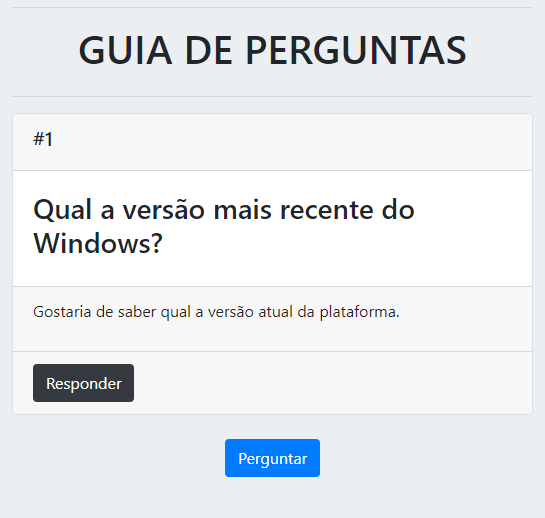
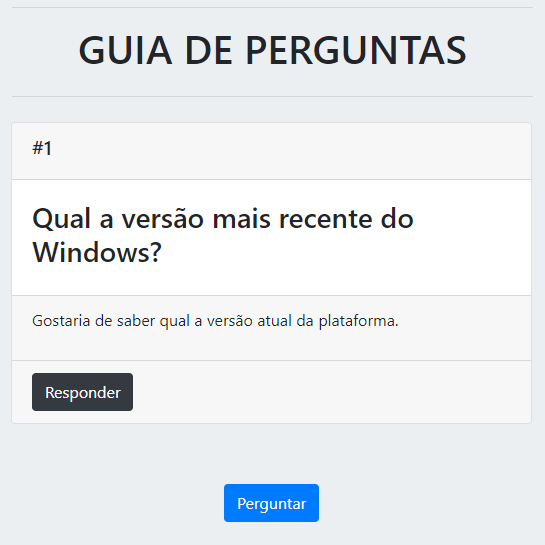
Melhorias no layout na sessão de projetos e mudança do texto de apresentação.

diff --git a/index.html b/index.html
@@ -5,7 +5,7 @@
     <meta charset="UTF-8">
     <meta http-equiv="X-UA-Compatible" content="IE=edge">
     <meta name="viewport" content="width=device-width, initial-scale=1.0">
-    <title>Pagina</title>
+    <title>Luis Carlos</title>
 
     <!-- Fontes -->
     <link rel="preconnect" href="https://fonts.googleapis.com">
@@ -84,9 +84,7 @@
                         </p>
                     </div>
                     <div class="col-12 pt-md-5 pt-4">
-                        <p class="text-white">Lorem ipsum dolor sit amet consectetur adipisicing elit. Officia autem
-                            neque consectetur molestiae deserunt hic, tempora aliquid eligendi, accusamus in, veniam
-                            doloribus. Unde fuga ad consequatur similique necessitatibus quo labore?</p>
+                        <p class="text-white">Olá, sou o Luis. Seja bem vindo(a)! Sou graduado em <strong>Ciência da Computação</strong> com especialização na área de Desenvolvimento Web <strong>Full Stack</strong> e <strong>Cloud Computing.</strong></p>
                     </div>
                 </div>
             </div>
@@ -97,17 +95,22 @@
 
             <div class="row text-white align-self-end justify-content-center d-flex p-0 m-0">
                 <div class="col-6 text-end">
-                    <i class="fab fa-github"></i>
+                    
+                    <a href="http://github.com/lolisdev" target="_blank">
+                        <i class="fab fa-github"></i>
+                    </a>
                 </div>
                 <div class="col-6 text-start">
-                    <i class="fab fa-linkedin"></i>
+                    <a href="https://www.linkedin.com/in/luis-carlos-pereira" target="_blank">
+                        <i class="fab fa-linkedin"></i>
+                    </a>
                 </div>
                 <div class="col-12">
                     <hr class="text-white p-auto">
                 </div>
                 <div class="col-12 justify-content-center">
                     <p class="text-center" style="text-shadow: 1px 1px 1px white;">
-                        Copyright 2021 - All rights reserved.
+                        Copyright 2023 - All rights reserved.
                     </p>
                 </div>
             </div>
@@ -158,10 +161,27 @@
                             Instituição de Ensino: Descomplica
                         </p>
                         <p>
-                            Curso: Pós Graduação em Projetos em Aplicações Móveis
+                            Curso: Pós Graduação em Projetos de Cloud Computing
                         </p>
                         <p>
                             Ano de Conclusão: 2022
+                        </p>
+                    </div>
+                </div>
+
+                <div class="row item-lista">
+                    <div class="col-4 d-flex justify-content-end" id="col-desc">
+                        <img class="logo" id="desc-logo" src="/img/descomplica-logo.png" alt="Logo da Descomplica">
+                    </div>
+                    <div class="col">
+                        <p>
+                            Instituição de Ensino: Descomplica
+                        </p>
+                        <p>
+                            Curso: Pós Graduação em Projetos em Aplicações Móveis
+                        </p>
+                        <p>
+                            Ano de Conclusão: 2023
                         </p>
                     </div>
                 </div>
@@ -171,38 +191,48 @@
             <!-- <img src="https://picsum.photos/280/280?random=01" class="w-75 rounded-circle p-2"> -->
         </div>
 
-        <div class="row" id="projetos">
+        <div class="row" id="projetos" style="padding-top: 60px;">
             <div class="col align-self-center"></div>
                 <div class="cards">
-                    <div class="container" style="margin-top: 0px;">
+                    <div class="container-fluid" style="margin-top: 0px;">
                         <div class="row justify-content-evenly pt-5">
-                            <div class="col-12 col-md-4">
-                                <div class="card w-sm-75 w-md-100">
-                                    <img src="./img/discord.png" class="card-img-top" alt="...">
+                            <div class="col-12 col-md-8 col-lg-6 mb-3" style="width: 500px;">
+                                <div class="card" style="background-color: #999999;">
+                                    <img src="./img/encurtar.jpg" class="card-img-top" alt="...">
                                     <div class="card-body">
-                                        <h5 class="card-title">Bot de Daily Meeting para Discord</h5>
-                                        <p class="card-text">Bot desenvolvido com NodeJS para Discord sortear os participantes do daily meeting.</p>
-                                        <a href="http://bot-datapage.glitch.me" class="btn btn-primary">Acessar</a>
+                                        <h5 class="card-title">Plataforma para encurtar links</h5>
+                                        <p class="card-text">Site para encurtar links desenvolvido com <strong>HTML, CSS e Javascript</strong> puro.</p>
+                                        <a href="http://encurtar.glitch.me" target="_blank" class="btn btn-dark">Acessar</a>
                                     </div>
                                 </div>
                             </div>
-                            <div class="col-12 col-md-4">
-                                <div class="card w-sm-75 w-md-100">
+                            <div class="col-12 col-md-8 col-lg-6 mb-3" style="width: 500px;">
+                                <div class="card" style="background-color: #999999;">
                                     <img src="./img/pergresp.PNG" class="card-img-top" alt="...">
                                     <div class="card-body">
                                         <h5 class="card-title">Perguntas e Respostas</h5>
-                                        <p class="card-text">Aplicativo de perguntas e respostas desenvolvido em Node.</p>
-                                        <a href="http://pergunte-me.glitch.me" class="btn btn-primary">Acessar</a>
+                                        <p class="card-text">Aplicativo de perguntas e respostas desenvolvido em <strong>NodeJS</strong>.</p>
+                                        <a href="http://pergunte-me.glitch.me" target="_blank" class="btn btn-dark">Acessar</a>
                                     </div>
                                 </div>
                             </div>
-                            <div class="col-12 col-md-4">
-                                <div class="card w-sm-75 w-md-100">
+                            <div class="col-12 col-md-8 col-lg-6 mb-3" style="width: 500px;">
+                                <div class="card" style="background-color: #999999;">
+                                    <img src="./img/discord.png" class="card-img-top" alt="...">
+                                    <div class="card-body">
+                                        <h5 class="card-title">Bot para Discord</h5>
+                                        <p class="card-text">Desenvolvido com <strong>NodeJS</strong> para sortear participantes de um canal.</p>
+                                        <a href="http://bot-datapage.glitch.me" target="_blank" class="btn btn-dark">Acessar</a>
+                                    </div>
+                                </div>
+                            </div>
+                            <div class="col-12 col-md-8 col-lg-6 mb-3" style="width: 500px;">
+                                <div class="card" style="background-color: #999999;">
                                     <img src="./img/portfolio.PNG" class="card-img-top" alt="...">
                                     <div class="card-body">
                                         <h5 class="card-title">Portfolio Profissional</h5>
-                                        <p class="card-text">Portfolio utilizando as tecnologias HTML, CSS, Jquery e Bootstrap.</p>
-                                        <a href="http://lolisdev.github.io" class="btn btn-primary">Acessar</a>
+                                        <p class="card-text">Portfólio desenvolvido com <strong>HTML, CSS, Jquery</strong> e <strong>Bootstrap</strong>.</p>
+                                        <a href="http://lolisdev.github.io" target="_blank" class="btn btn-dark">Acessar</a>
                                     </div>
                                 </div>
                             </div>

diff --git a/css/style.css b/css/style.css
@@ -6,6 +6,10 @@ body, nav {
     background-color: rgb(39, 39, 39);
 }
 
+a, a:visited, a:active, a:hover {
+    color: white;
+}
+
 #projetos {
     color: rgb(39, 39, 39);
     height: 100vh;
@@ -74,7 +78,7 @@ body, nav {
 
 .card > img {
     border: 3px solid gray;
-    height: 450px;
+    object-fit: cover;
 }
 
 /* SCSS */

diff --git a/jquery.js b/jquery.js
@@ -1,8 +1,9 @@
 $(document).ready(function(){
     $(function(){
         $('#formacao').hide();
-        $('#projetos').hide();
+        $('#projetos').show();
         $('#contato').hide();
+        $('#quemsoueu').hide();
 
         $("#btnquemsoueu").click(function(){
             $('#quemsoueu').fadeIn(2000);
